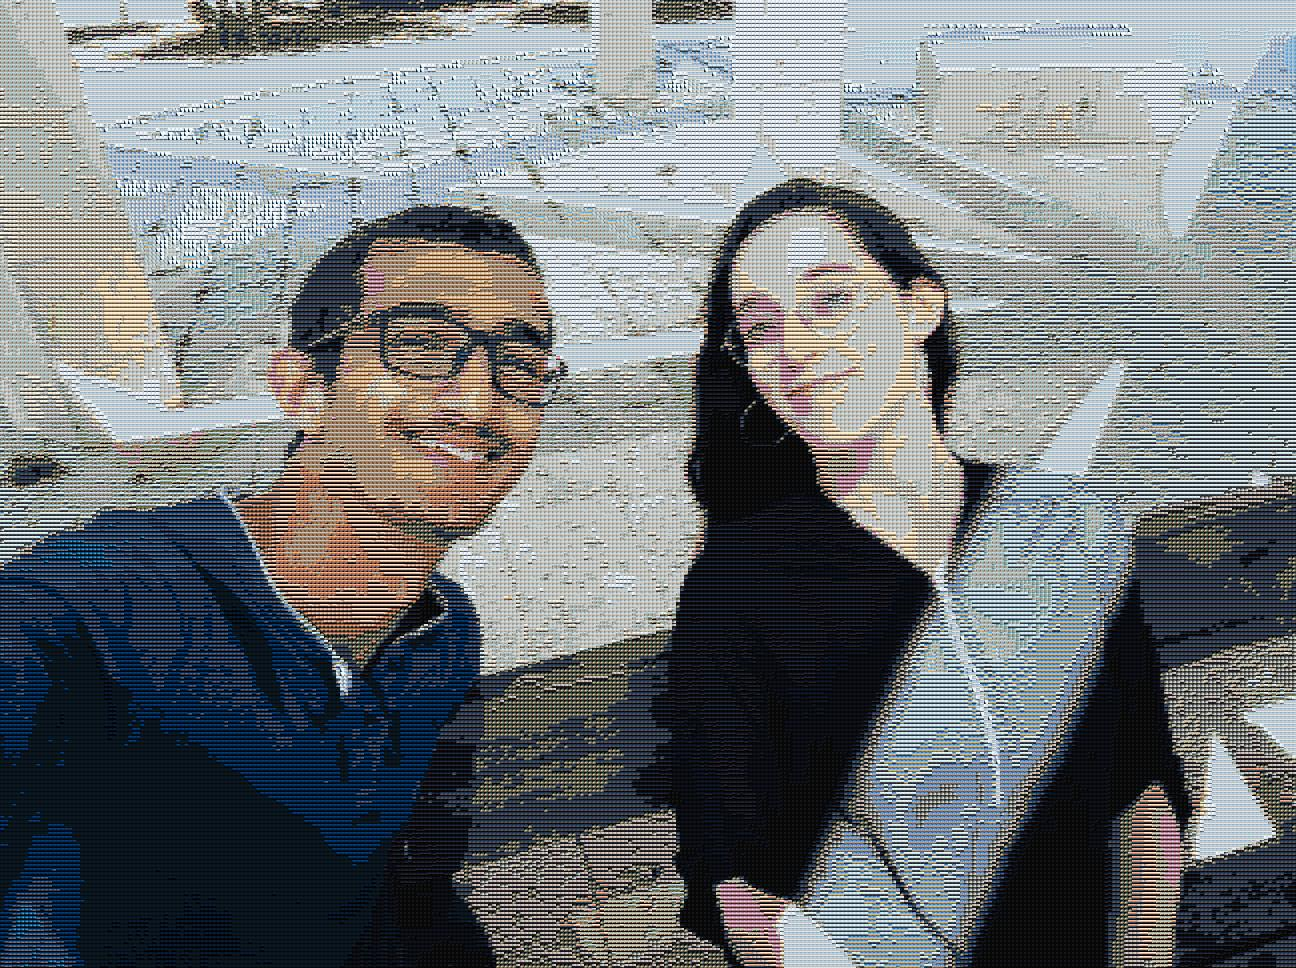
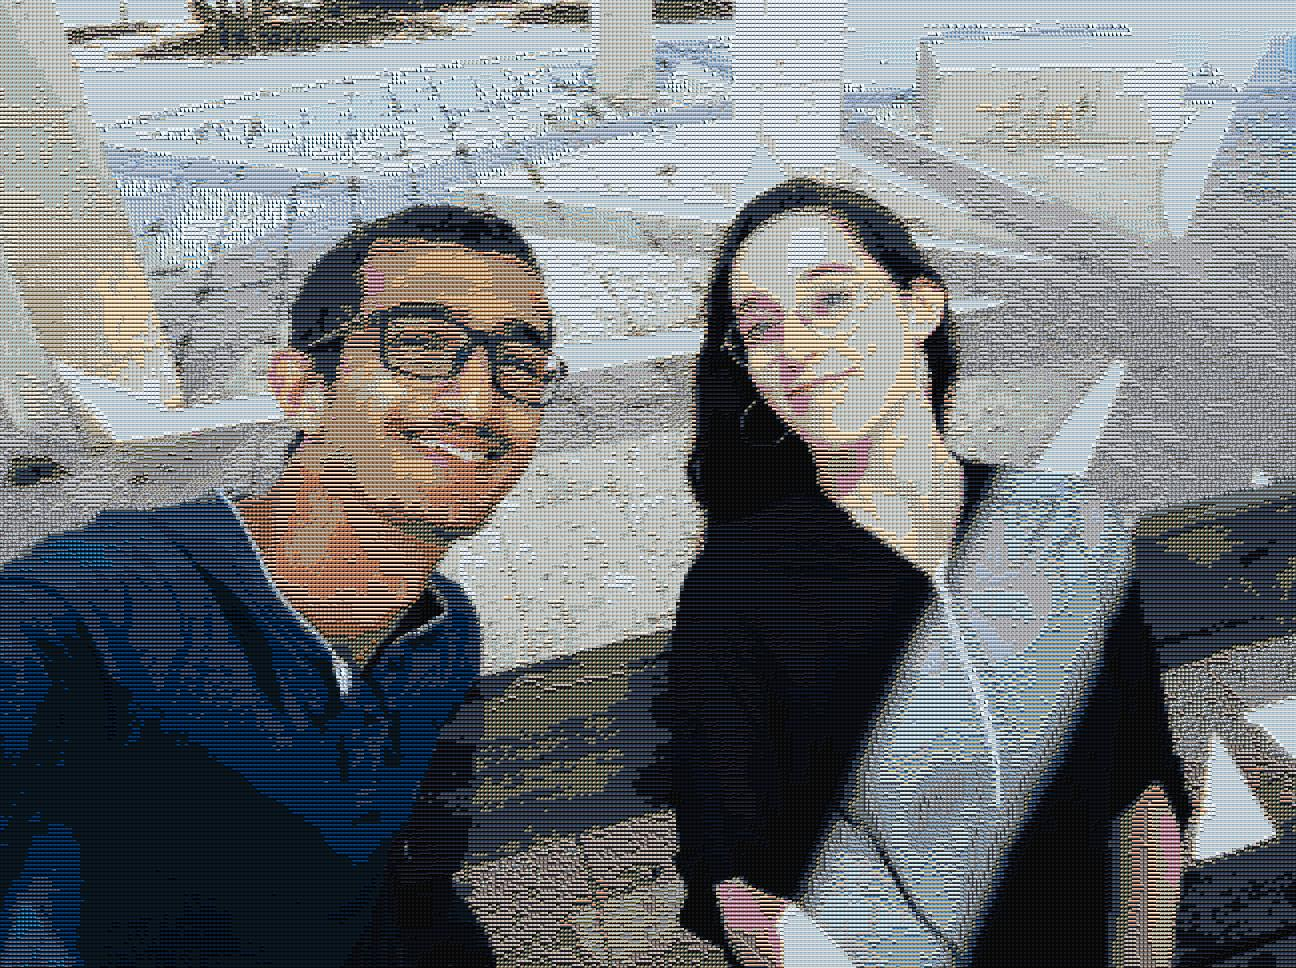
עדכונים מינוריים
הוספתי את התמונות שקיבלתי משחר ועדכנתי את הגלריה, תמונת התצוגה ותמונת ההורדה על פיהן. יש לציין שהן לא שינו הרבה ולכן הוספתי הערה על כך בדף עצמו

diff --git a/script.js b/script.js
@@ -11,11 +11,11 @@ const handleOnMove = e => {
   if(track.dataset.mouseDownAt === "0") return;
   
   const mouseDelta = parseFloat(track.dataset.mouseDownAt) - e.clientX,
-        maxDelta = window.innerHeight / 2;
+        maxDelta = window.innerWidth * 2;
   
   const percentage = (mouseDelta / maxDelta) * -100,
         nextPercentageUnconstrained = parseFloat(track.dataset.prevPercentage) + percentage,
-        nextPercentage = Math.max(Math.min(nextPercentageUnconstrained, 0), -82);
+        nextPercentage = Math.max(Math.min(nextPercentageUnconstrained, 0), -88);
   
   track.dataset.percentage = nextPercentage;
   
@@ -54,7 +54,8 @@ var i = 0,
 // Typerwrite text content. Use a pipe to indicate the start of the second line "|".  
 var textArray = [
   "שלום לך! חשבתי מה אוכל לעשות כדי לשמח אותך, והגעתי לתוצאה הזו -|תוכלי להוריד את התמונה מהכפתור למעלה ולהגדיל קצת, אני מבטיח שזה שווה את זה",
-  "למען ההגינות אני אציין שבעוד שאת הקוד ליצור את התמונה כתבתי בעצמי, העיצוב של הדף הזה לקוח מדוגמאות שראיתי אצל אחרים"
+  "למען ההגינות אני אציין שבעוד שאת הקוד ליצור את התמונה כתבתי בעצמי, העיצוב של הדף הזה לקוח מדוגמאות שראיתי אצל אחרים",
+  "בנוסף, רציתי ליצור את התמונה הזו מהצילומים שלך בלבד, אבל חסרו הרבה גוונים.|בשביל להשלים הוספתי כמה תמונות מבינה מלאכותית שבהן השתמשתי לפני שהיו לי התמונות שלך, והאמת שהן ממלאות את רוב התמונה."
 ];
 
 // Speed (in milliseconds) of typing.
@@ -144,9 +145,9 @@ document.getElementById('ms-download').addEventListener('click', function () {
                     .createElement('a');
                 //link to the uploaded image
                 //  in your local storage
-                link.href = 'img/image.jpg';
+                link.href = 'detailedImage.jpg';
                 link.download = 'sky_mosaic_shahar.jpg';
                 document.body.appendChild(link);
-                sleep(4000).then(() => {link.click();})
+                sleep(2000).then(() => {link.click();})
                 document.body.removeChild(link);
             });

diff --git a/index.html b/index.html
@@ -11,7 +11,7 @@
       <span></span>
       <span></span>
       <span></span>
-  </div>
+    </div>
 
     <img class="image" src="img/001.jpg" draggable="false" />
     <img class="image" src="img/002.jpg" draggable="false" />
@@ -26,23 +26,35 @@
     <img class="image" src="img/011.jpg" draggable="false" />
     <img class="image" src="img/012.jpg" draggable="false" />
     <img class="image" src="img/013.jpg" draggable="false" />
+    <img class="image" src="img/014.jpg" draggable="false" />
+    <img class="image" src="img/015.jpg" draggable="false" />
+    <img class="image" src="img/016.jpg" draggable="false" />
+    <img class="image" src="img/017.jpg" draggable="false" />
+    <img class="image" src="img/018.jpg" draggable="false" />
+    <img class="image" src="img/019.jpg" draggable="false" />
+    <img class="image" src="img/020.jpg" draggable="false" />
+    <img class="image" src="img/021.jpg" draggable="false" />
+    <img class="image" src="img/022.jpg" draggable="false" />
+    <img class="image" src="img/023.jpg" draggable="false" />
+    <img class="image" src="img/024.jpg" draggable="false" />
+
 
     <img id="target" src="image.jpg" draggable="false">
 
     <div class="container">
-        <label for="ms-download">
-          <div class="ms-content">
-            <div class="ms-content-inside">
+      <label for="ms-download">
+        <div class="ms-content">
+          <div class="ms-content-inside">
 
-              <input type="checkbox" id="ms-download" />
+            <input type="checkbox" id="ms-download" />
 
-              <div class="ms-line-down-container">
-                <div class="ms-line-down"></div>
-              </div>
-              <div class="ms-line-point"></div>
+            <div class="ms-line-down-container">
+              <div class="ms-line-down"></div>
             </div>
+            <div class="ms-line-point"></div>
           </div>
-        </label>
+        </div>
+      </label>
 
       <div class="output" id="output">
         <h1 class="cursor"></h1>

diff --git a/styles.css b/styles.css
@@ -32,7 +32,7 @@ body {
   display: flex;
   flex-direction: column;
   gap: 8vmin;
-  margin-left: 20vmin;
+  margin-right: 3vmin;
 }
 
 @font-face {
@@ -114,10 +114,6 @@ p.cursor::after {
 #ms-download {
   display: none;
 }
-#ms-download:checked ~ .ms-line-down-container {
-  transform: rotate(-360deg);
-  transition: transform 1.5s ease 1.25s;
-}
 
 .ms-line-down {
   position: absolute;
@@ -158,13 +154,13 @@ p.cursor::after {
 #ms-download:checked ~ .ms-line-point:before {
   transform: rotate(90deg);
   right: -10px;
-  animation: ms-check-right .25s forwards 3s;
+  animation: ms-check-right .25s forwards 1s;
 }
 
 #ms-download:checked ~ .ms-line-point:after {
   transform: rotate(-90deg);
   left: -10px;
-  animation: ms-check-left .25s forwards 3s;
+  animation: ms-check-left .25s forwards 1s;
 }
 
 .ms-line-point:before,
@@ -201,6 +197,7 @@ p.cursor::after {
   }
   100% {
     top: -190px;
+    opacity: 0;
   }
 }
 
